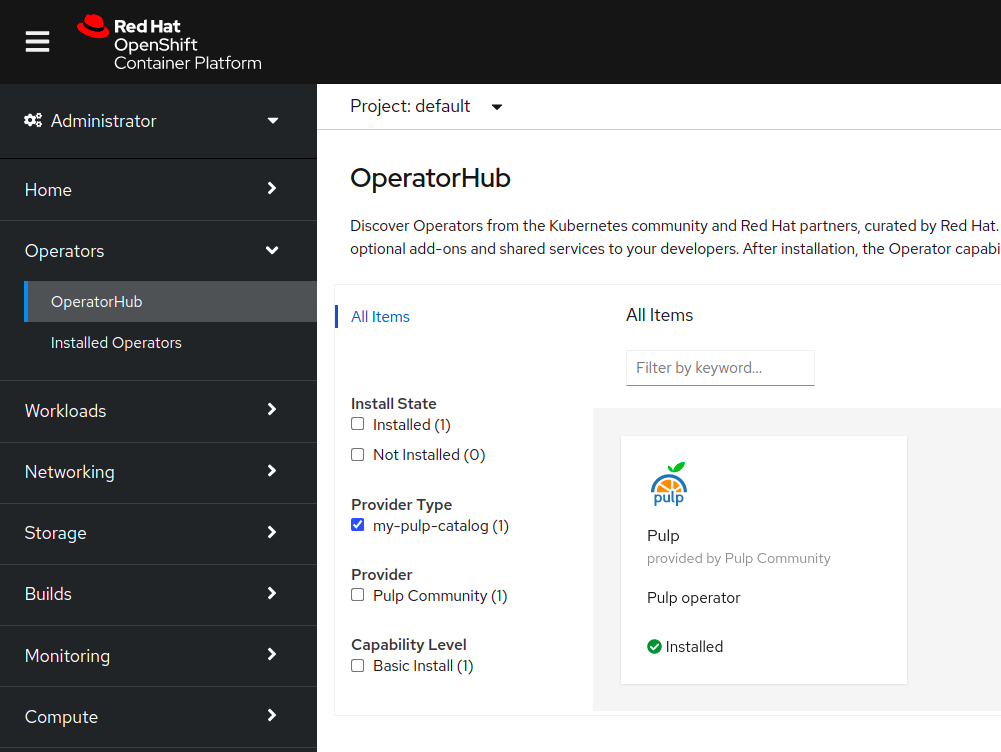
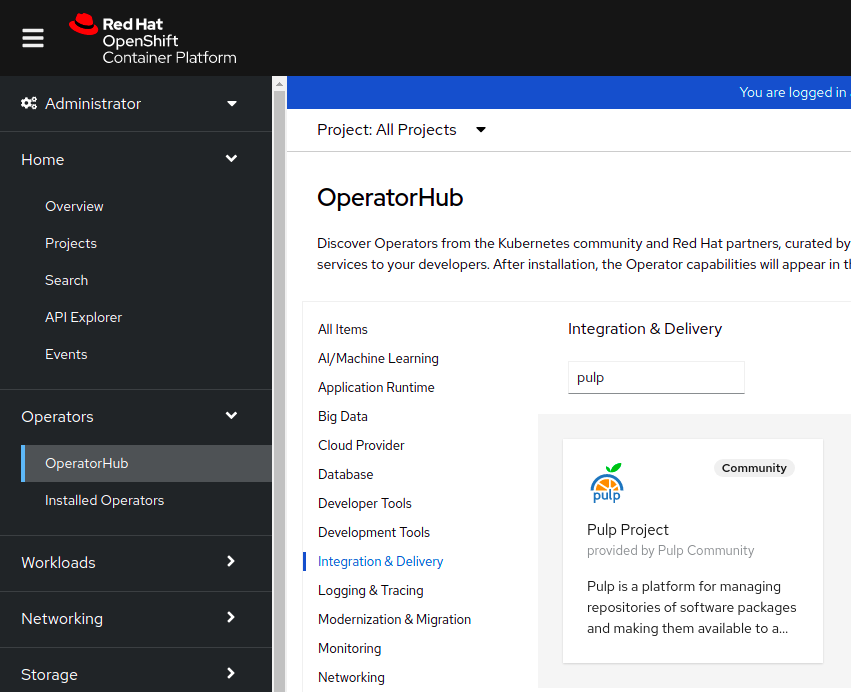
Update OCP docs
[noissue]

diff --git a/docs/quickstart.md b/docs/quickstart.md
@@ -32,34 +32,11 @@ Get external IP addresses:
 
 ## OpenShift
 
-Currently pulp-operator is not available in the OpenShift catalogue, so as a first step you must create a catalogue entry:
+Pulp is available on `OperatorHub`, you can find it at the `Integration & Delivery` section:
 
-```yaml
-# pulp-catalog-source.yaml
----
-apiVersion: operators.coreos.com/v1alpha1
-kind: CatalogSource
-metadata:
- name: my-pulp-catalog
- namespace: openshift-marketplace
-spec:
- sourceType: grpc
- image: quay.io/pulp/pulp-operator-catalog:v0.4.0.dev
-
-```
-
-* Refer to [Getting started with the OpenShift CLI](https://docs.openshift.com/container-platform/4.7/cli_reference/openshift_cli/getting-started-cli.html)
-
-* Verify the desired tag for `pulp-operator-catalog` image [here](https://quay.io/repository/pulp/pulp-operator-catalog?tab=tags)
-```console
-oc apply -f pulp-catalog-source.yaml
-```
-
-Wait a few seconds and refresh the OCP page. After the refresh, you can see a `my-pulp-catalog` entry
-on the OperatorHub tab:
 ![OperatorHub tab](images/1.png "Pulp on OperatorHub tab")
 
-Click `Pulp` and then `Install`:
+For installing it, click on: `Pulp Project` and then `Install`:
 ![Installing pulp](images/2.png "Installing pulp operator")
 
 ![Installing pulp](images/3.png "Installing pulp operator")
